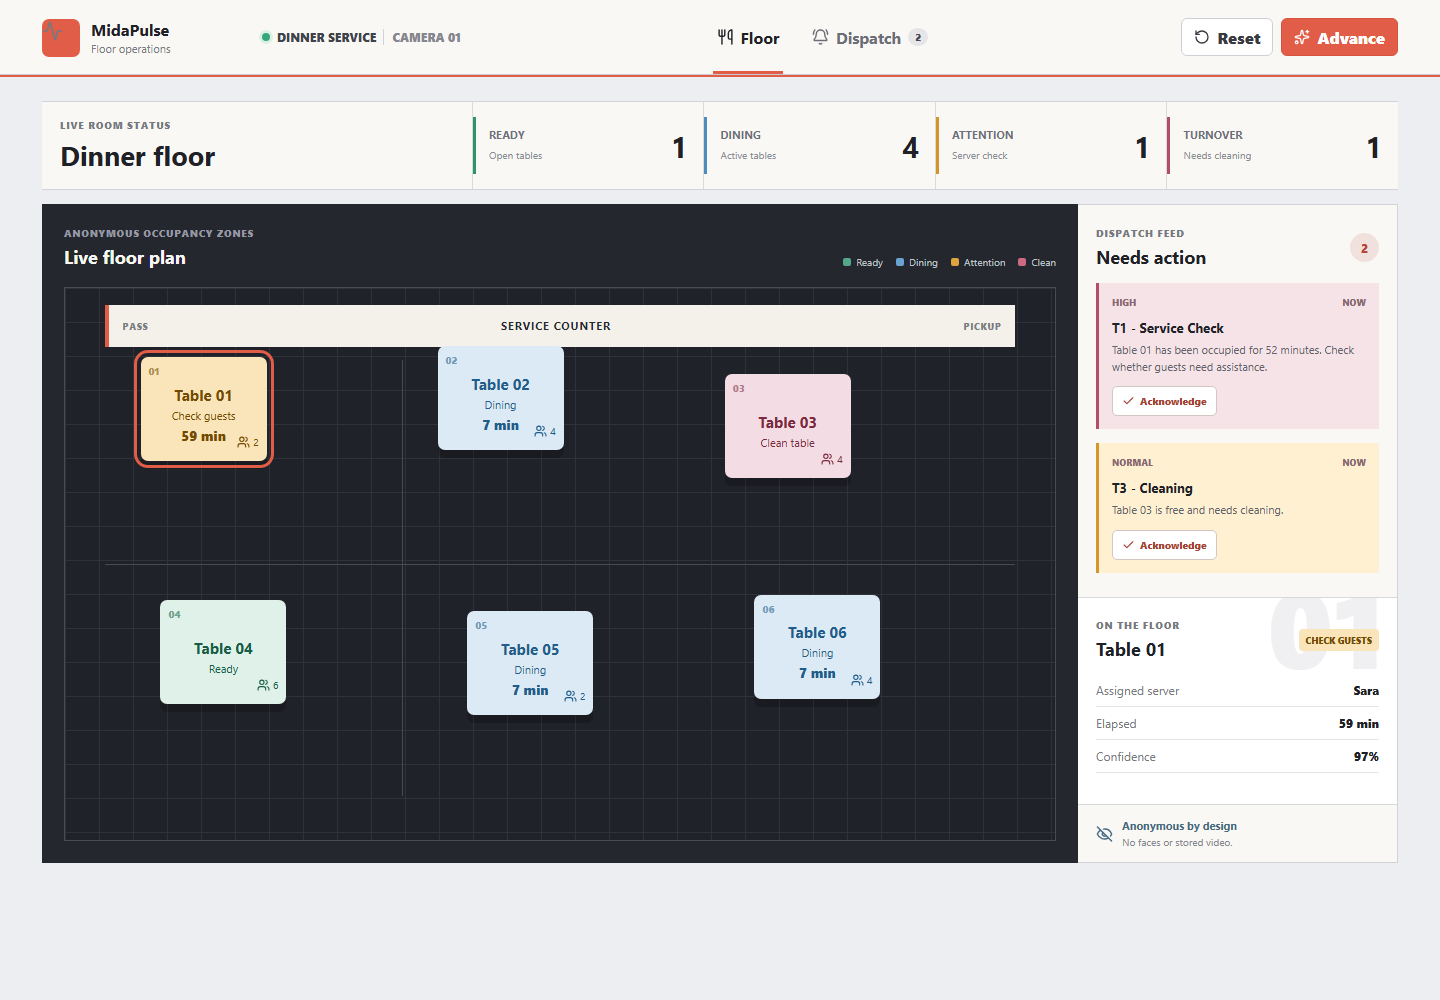
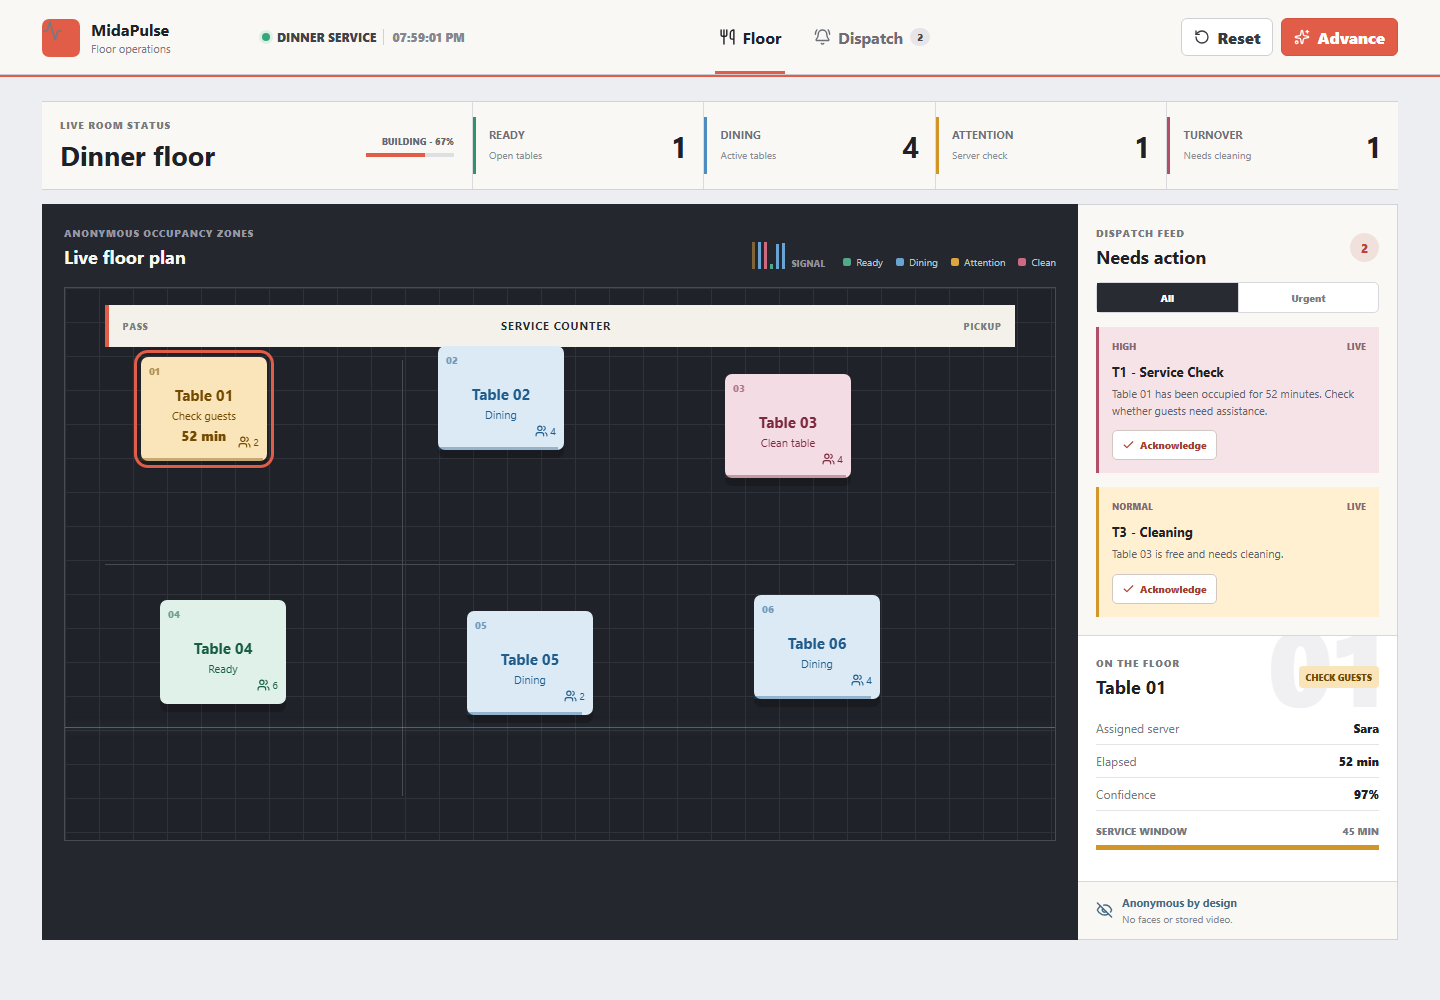
feat: add a live operational pulse

diff --git a/frontend/src/styles.css b/frontend/src/styles.css
@@ -29,7 +29,7 @@ button { font: inherit; cursor: pointer; }
 .brand span { margin-top: 1px; color: #777982; font-size: 11px; }
 .service-mode { display: flex; align-items: center; gap: 7px; color: #41434a; font-size: 12px; font-weight: 800; text-transform: uppercase; }
 .service-mode i { width: 8px; height: 8px; border-radius: 50%; background: #34a678; box-shadow: 0 0 0 3px #dcefe8; }
-.service-mode span { padding-left: 8px; border-left: 1px solid #d1d2d7; color: #85868e; }
+.service-mode span { min-width: 76px; padding-left: 8px; border-left: 1px solid #d1d2d7; color: #85868e; font-variant-numeric: tabular-nums; }
 nav { height: 74px; display: flex; justify-content: center; gap: 4px; }
 nav button { position: relative; min-width: 94px; padding: 0 13px; display: flex; align-items: center; justify-content: center; gap: 7px; border: 0; background: transparent; color: #6c6e77; font-weight: 750; }
 nav button svg { width: 17px; }
@@ -41,6 +41,7 @@ nav button.active::after { content: ""; position: absolute; left: 12px; right: 1
 .actions svg { width: 16px; }
 .actions .primary, .primary { border-color: #d65340; background: #e25d47; color: white; }
 .actions button:disabled { opacity: .65; cursor: wait; }
+.actions button:disabled svg { animation: spin 1s linear infinite; }
 
 .cockpit { padding: 26px clamp(18px, 3vw, 42px) 36px; }
 .eyebrow { margin: 0 0 5px; color: #777982; font-size: 10px; font-weight: 900; letter-spacing: .08em; text-transform: uppercase; }
@@ -58,7 +59,11 @@ h2 { font-size: 18px; }
   border-top: 1px solid #d2d3d8;
   border-bottom: 1px solid #d2d3d8;
 }
-.ribbon-title { padding: 16px 18px; align-self: center; }
+.ribbon-title { padding: 16px 18px; align-self: center; display: flex; align-items: center; justify-content: space-between; gap: 16px; }
+.tempo { width: 88px; color: #676972; font-size: 9px; font-weight: 900; text-align: right; text-transform: uppercase; }
+.tempo>span { display: block; margin-bottom: 6px; }
+.tempo>i, .service-window>i { height: 4px; display: block; overflow: hidden; background: #dedfe3; }
+.tempo>i b, .service-window>i b { height: 100%; display: block; background: #e25d47; transition: width .6s ease; }
 .metric { position: relative; padding: 14px 16px; display: grid; grid-template-columns: 1fr auto; align-content: center; border-left: 1px solid #d9dade; }
 .metric::before { content: ""; position: absolute; left: 0; top: 15px; bottom: 15px; width: 3px; background: #2f936e; }
 .metric.occupied::before { background: #4e8bbe; }
@@ -72,6 +77,13 @@ h2 { font-size: 18px; }
 .floor-stage { min-width: 0; padding: 22px; background: #25272e; color: #f8f7f3; }
 .stage-heading { display: flex; align-items: end; justify-content: space-between; gap: 18px; }
 .stage-heading .eyebrow { color: #9699a3; }
+.stage-tools { display: flex; align-items: end; gap: 18px; }
+.room-signal { height: 28px; display: flex; align-items: end; gap: 3px; color: #8f929c; }
+.room-signal i { width: 3px; min-height: 5px; background: #52a889; transition: height .5s ease; }
+.room-signal i.occupied { background: #69a3d2; }
+.room-signal i.attention_due { background: #dea43d; animation: signal 1s ease-in-out infinite alternate; }
+.room-signal i.vacated_needs_cleaning { background: #cc6a82; }
+.room-signal span { margin-left: 3px; align-self: end; font-size: 9px; font-weight: 850; text-transform: uppercase; }
 .legend { display: flex; flex-wrap: wrap; justify-content: flex-end; gap: 13px; color: #bfc1c8; font-size: 10px; }
 .legend span { display: flex; align-items: center; gap: 5px; }
 .legend i { width: 8px; height: 8px; border-radius: 2px; background: #52a889; }
@@ -82,30 +94,37 @@ h2 { font-size: 18px; }
 .map::before, .map::after { content: ""; position: absolute; background: #484b54; }
 .map::before { left: 34%; top: 13%; bottom: 8%; width: 1px; }
 .map::after { left: 4%; right: 4%; top: 50%; height: 1px; }
+.scan-line { position: absolute; left: 0; right: 0; top: 12%; height: 1px; background: rgba(111,183,208,.65); box-shadow: 0 0 12px rgba(111,183,208,.5); animation: scan 7s ease-in-out infinite alternate; pointer-events: none; z-index: 1; }
 .bar { position: absolute; left: 4%; right: 4%; top: 3%; height: 42px; padding: 0 14px; display: flex; align-items: center; justify-content: space-between; border-left: 4px solid #e25d47; background: #f4f1eb; color: #272930; text-transform: uppercase; }
 .bar strong { font-size: 11px; letter-spacing: .08em; }
 .bar span { color: #7b7d84; font-size: 9px; font-weight: 900; letter-spacing: .08em; }
-.table { position: absolute; width: 126px; height: 104px; padding: 10px; transform: translate(-50%, -50%); border: 0; border-radius: 7px; background: #dff1e9; color: #185d45; box-shadow: 0 8px 0 rgba(0,0,0,.18); transition: transform .16s ease, box-shadow .16s ease; z-index: 1; }
+.table { position: absolute; width: 126px; height: 104px; padding: 10px; transform: translate(-50%, -50%); border: 0; border-radius: 7px; background: #dff1e9; color: #185d45; box-shadow: 0 8px 0 rgba(0,0,0,.18); transition: transform .16s ease, box-shadow .16s ease; animation: table-in .45s both; animation-delay: var(--delay); z-index: 2; }
 .table:hover { transform: translate(-50%, -54%); box-shadow: 0 11px 0 rgba(0,0,0,.22); }
 .table-number { position: absolute; left: 8px; top: 7px; color: currentColor; font-size: 10px; font-weight: 900; opacity: .55; }
-.table strong, .table>span:not(.table-number), .table small { display: block; }
+.table strong, .table>span:not(.table-number):not(.confidence), .table small { display: block; }
 .table strong { margin-top: 10px; font-size: 15px; }
 .table>span:not(.table-number) { margin-top: 3px; font-size: 11px; }
 .table small { margin-top: 4px; font-weight: 900; }
 .table em { position: absolute; right: 8px; bottom: 7px; display: flex; align-items: center; gap: 3px; font-size: 10px; font-style: normal; }
 .table em svg { width: 13px; }
+.confidence { position: absolute; left: 0; bottom: 0; width: var(--confidence); height: 3px; background: currentColor; opacity: .38; transition: width .6s ease; }
 .table.selected { outline: 3px solid #e25d47; outline-offset: 4px; }
 .table.occupied { background: #dceaf5; color: #205d8c; }
 .table.attention_due { background: #f9e5b9; color: #744a00; }
 .table.vacated_needs_cleaning { background: #f3dce3; color: #7d2940; }
 .table.cleaning { background: #e9e0f2; color: #554078; }
 .table.out_of_service { background: #e1e2e5; color: #55575f; }
+.table.attention_due:not(.selected) { animation: table-in .45s both var(--delay), attention-pulse 1.8s ease-in-out infinite 1s; }
 
 .dispatch { min-width: 0; display: flex; flex-direction: column; background: #f9f8f5; border: 1px solid #d2d3d8; border-left: 0; }
 .queue { padding: 21px 18px 18px; }
 .dispatch-heading, .inspector-title { display: flex; align-items: center; justify-content: space-between; gap: 12px; }
 .queue-count { min-width: 29px; height: 29px; padding: 0 8px; display: grid; place-items: center; border-radius: 15px; background: #f0e1dd; color: #b84535; font-size: 12px; font-weight: 900; }
-.alert { position: relative; margin-top: 14px; padding: 13px; border-left: 3px solid #d3972c; background: #fff0d2; }
+.queue-filter { margin-top: 13px; display: grid; grid-template-columns: 1fr 1fr; border: 1px solid #d7d8dc; border-radius: 5px; background: white; }
+.queue-filter button { min-height: 29px; border: 0; background: transparent; color: #7b7d85; font-size: 10px; font-weight: 850; }
+.queue-filter button+button { border-left: 1px solid #d7d8dc; }
+.queue-filter button.active { background: #292b32; color: white; }
+.alert { position: relative; margin-top: 14px; padding: 13px; border-left: 3px solid #d3972c; background: #fff0d2; animation: alert-in .35s both; animation-delay: var(--delay); }
 .alert.high { border-left-color: #b34e69; background: #f6e3e8; }
 .alert-meta { margin-bottom: 8px; display: flex; justify-content: space-between; color: #8a6871; font-size: 9px; font-weight: 900; text-transform: uppercase; }
 .alert strong { font-size: 13px; text-transform: capitalize; }
@@ -113,7 +132,7 @@ h2 { font-size: 18px; }
 .alert button { min-height: 30px; padding: 0 9px; display: flex; align-items: center; gap: 5px; border: 1px solid #d2c7c3; border-radius: 5px; background: white; color: #a83f31; font-size: 10px; font-weight: 850; }
 .alert button svg { width: 13px; }
 .empty { color: #767881; font-size: 12px; }
-.inspector { position: relative; margin-top: auto; padding: 20px 18px 18px; overflow: hidden; border-top: 1px solid #d7d8dc; background: white; }
+.inspector { position: relative; margin-top: auto; padding: 20px 18px 18px; overflow: hidden; border-top: 1px solid #d7d8dc; background: white; animation: inspector-in .25s ease-out both; }
 .inspector-number { position: absolute; right: 12px; top: -28px; color: #f0f0f2; font-size: 108px; font-weight: 950; line-height: 1; pointer-events: none; }
 .inspector-title { position: relative; }
 .state-pill { padding: 5px 7px; border-radius: 4px; background: #dff1e9; color: #236e54; font-size: 9px; font-weight: 900; text-transform: uppercase; }
@@ -125,12 +144,24 @@ h2 { font-size: 18px; }
 .inspector dl div { display: flex; justify-content: space-between; padding: 8px 0; border-bottom: 1px solid #e4e4e7; }
 .inspector dt { color: #777982; font-size: 12px; }
 .inspector dd { margin: 0; font-size: 12px; font-weight: 850; }
+.service-window { position: relative; margin: 13px 0; }
+.service-window>div { margin-bottom: 7px; display: flex; justify-content: space-between; color: #777982; font-size: 10px; font-weight: 800; text-transform: uppercase; }
+.service-window>i { height: 5px; }
+.service-window>i b { background: #d39527; }
 .wide { width: 100%; }
 .privacy { padding: 13px 18px; display: flex; align-items: center; gap: 9px; border-top: 1px solid #d7d8dc; color: #456b82; }
 .privacy svg { width: 17px; }
 .privacy strong, .privacy span { display: block; }
 .privacy strong { font-size: 11px; }
 .privacy span { margin-top: 2px; color: #85878f; font-size: 10px; }
+
+@keyframes scan { from { top: 12%; opacity: .35; } to { top: 92%; opacity: .8; } }
+@keyframes table-in { from { opacity: 0; transform: translate(-50%, -42%) scale(.94); } to { opacity: 1; transform: translate(-50%, -50%) scale(1); } }
+@keyframes alert-in { from { opacity: 0; transform: translateX(12px); } to { opacity: 1; transform: translateX(0); } }
+@keyframes inspector-in { from { opacity: 0; transform: translateY(7px); } to { opacity: 1; transform: translateY(0); } }
+@keyframes attention-pulse { 50% { box-shadow: 0 8px 0 rgba(0,0,0,.18), 0 0 0 5px rgba(222,164,61,.16); } }
+@keyframes signal { from { opacity: .45; } to { opacity: 1; } }
+@keyframes spin { to { transform: rotate(360deg); } }
 
 @media (max-width: 1080px) {
   .topbar { grid-template-columns: auto 1fr auto; gap: 16px; }
@@ -162,10 +193,17 @@ h2 { font-size: 18px; }
   .metric:nth-of-type(4) { border-top: 1px solid #d9dade; }
   .floor-stage { padding: 16px 14px; }
   .stage-heading { align-items: start; flex-direction: column; }
+  .stage-tools { width: 100%; justify-content: space-between; align-items: end; }
   .legend { justify-content: flex-start; }
   .map { height: auto; padding: 14px; display: grid; grid-template-columns: repeat(2, minmax(0, 1fr)); gap: 12px; }
-  .map::before, .map::after { display: none; }
+  .map::before, .map::after, .scan-line { display: none; }
   .bar { position: relative; inset: auto; grid-column: 1 / -1; }
-  .table { position: relative; inset: auto!important; width: 100%; transform: none; }
+  .table { position: relative; inset: auto!important; width: 100%; transform: none; animation-name: mobile-table-in; }
   .table:hover { transform: translateY(-2px); }
+}
+
+@keyframes mobile-table-in { from { opacity: 0; transform: translateY(8px); } to { opacity: 1; transform: translateY(0); } }
+
+@media (prefers-reduced-motion: reduce) {
+  *, *::before, *::after { animation-duration: .01ms!important; animation-iteration-count: 1!important; scroll-behavior: auto!important; }
 }

diff --git a/frontend/src/main.tsx b/frontend/src/main.tsx
@@ -15,7 +15,7 @@ import "./styles.css";
 const API = import.meta.env.VITE_API_URL || "http://127.0.0.1:8100";
 
 type State = "available_clean" | "occupied" | "attention_due" | "vacated_needs_cleaning" | "cleaning" | "out_of_service";
-type Table = {id:string;label:string;seats:number;zone_x:number;zone_y:number;state:State;elapsed_minutes:number;assigned_server:string|null;last_confidence:number};
+type Table = {id:string;label:string;seats:number;zone_x:number;zone_y:number;state:State;elapsed_minutes:number;attention_after_minutes:number;assigned_server:string|null;last_confidence:number};
 type Alert = {id:number;table_id:string;alert_type:string;priority:string;message:string;status:string;created_at:string;acknowledged_by:string|null};
 type Snapshot = {tables:Table[];alerts:Alert[];metrics:Record<string,number>};
 
@@ -26,15 +26,21 @@ function App(){
   const [selected,setSelected]=useState("T1");
   const [error,setError]=useState("");
   const [busy,setBusy]=useState(false);
+  const [now,setNow]=useState(new Date());
+  const [alertFilter,setAlertFilter]=useState<"all"|"urgent">("all");
   const load=async()=>{try{const r=await fetch(`${API}/api/floor`);if(!r.ok)throw new Error();setData(await r.json());setError("");}catch{setError("API unavailable on port 8100");}};
   useEffect(()=>{load();const timer=setInterval(load,3000);return()=>clearInterval(timer);},[]);
+  useEffect(()=>{const timer=setInterval(()=>setNow(new Date()),1000);return()=>clearInterval(timer);},[]);
   const act=async(path:string,body?:object)=>{setBusy(true);await fetch(`${API}${path}`,{method:"POST",headers:{"Content-Type":"application/json"},body:body?JSON.stringify(body):undefined});await load();setBusy(false);};
   const chosen=useMemo(()=>data.tables.find(t=>t.id===selected),[data,selected]);
+  const shownAlerts=alertFilter==="urgent"?data.alerts.filter(a=>a.priority==="high"):data.alerts;
+  const occupancy=Math.round(((data.metrics.occupied||0)/Math.max(data.tables.length,1))*100);
+  const tempo=occupancy>=75?"Peak":occupancy>=45?"Building":"Calm";
 
   return <div className="app">
     <header className="topbar">
       <div className="brand"><span className="brand-mark"><Activity/></span><div><strong>MidaPulse</strong><span>Floor operations</span></div></div>
-      <div className="service-mode"><i/>Dinner service <span>Camera 01</span></div>
+      <div className="service-mode"><i/>Dinner service <span>{now.toLocaleTimeString([],{hour:"2-digit",minute:"2-digit",second:"2-digit"})}</span></div>
       <nav><button className="active"><Utensils/>Floor</button><button><BellRing/>Dispatch <b>{data.alerts.length}</b></button></nav>
       <div className="actions"><button title="Reset demo" onClick={()=>act("/api/demo/reset")}><RotateCcw/><span>Reset</span></button><button className="primary" onClick={()=>act("/api/demo/step")} disabled={busy}><Sparkles/>Advance</button></div>
     </header>
@@ -42,7 +48,7 @@ function App(){
     <main className="cockpit">
       {error&&<div className="error">{error}</div>}
       <section className="service-ribbon">
-        <div className="ribbon-title"><p className="eyebrow">Live room status</p><h1>Dinner floor</h1></div>
+        <div className="ribbon-title"><div><p className="eyebrow">Live room status</p><h1>Dinner floor</h1></div><div className="tempo"><span>{tempo} - {occupancy}%</span><i><b style={{width:`${occupancy}%`}}/></i></div></div>
         <div className="metric available"><span>Ready</span><strong>{data.metrics.available||0}</strong><small>Open tables</small></div>
         <div className="metric occupied"><span>Dining</span><strong>{data.metrics.occupied||0}</strong><small>Active tables</small></div>
         <div className="metric attention"><span>Attention</span><strong>{data.metrics.attention_due||0}</strong><small>Server check</small></div>
@@ -51,13 +57,13 @@ function App(){
 
       <div className="workspace">
         <section className="floor-stage">
-          <div className="stage-heading"><div><p className="eyebrow">Anonymous occupancy zones</p><h2>Live floor plan</h2></div><div className="legend"><span><i className="ready"/>Ready</span><span><i className="dining"/>Dining</span><span><i className="attention"/>Attention</span><span><i className="clean"/>Clean</span></div></div>
-          <div className="map"><div className="bar"><span>Pass</span><strong>Service counter</strong><span>Pickup</span></div>{data.tables.map(t=><button key={t.id} style={{left:`${t.zone_x}%`,top:`${t.zone_y}%`}} className={`table ${t.state} ${selected===t.id?"selected":""}`} onClick={()=>setSelected(t.id)}><span className="table-number">{t.label.replace("Table ","")}</span><strong>{t.label}</strong><span>{labels[t.state]}</span>{t.elapsed_minutes>0&&<small>{t.elapsed_minutes} min</small>}<em><Users/> {t.seats}</em></button>)}</div>
+          <div className="stage-heading"><div><p className="eyebrow">Anonymous occupancy zones</p><h2>Live floor plan</h2></div><div className="stage-tools"><div className="room-signal" title="Live room signal">{data.tables.map(t=><i key={t.id} className={t.state} style={{height:`${Math.max(18,Math.round(t.last_confidence*100))}%`}}/>)}<span>Signal</span></div><div className="legend"><span><i className="ready"/>Ready</span><span><i className="dining"/>Dining</span><span><i className="attention"/>Attention</span><span><i className="clean"/>Clean</span></div></div></div>
+          <div className="map"><div className="scan-line"/><div className="bar"><span>Pass</span><strong>Service counter</strong><span>Pickup</span></div>{data.tables.map((t,index)=><button key={t.id} style={{left:`${t.zone_x}%`,top:`${t.zone_y}%`,"--delay":`${index*70}ms`,"--confidence":`${Math.round(t.last_confidence*100)}%`} as React.CSSProperties} className={`table ${t.state} ${selected===t.id?"selected":""}`} onClick={()=>setSelected(t.id)}><span className="table-number">{t.label.replace("Table ","")}</span><strong>{t.label}</strong><span>{labels[t.state]}</span>{t.elapsed_minutes>0&&<small>{t.elapsed_minutes} min</small>}<span className="confidence"/><em><Users/> {t.seats}</em></button>)}</div>
         </section>
 
         <aside className="dispatch">
-          <section className="queue"><div className="dispatch-heading"><div><p className="eyebrow">Dispatch feed</p><h2>Needs action</h2></div><span className="queue-count">{data.alerts.length}</span></div>{data.alerts.length===0?<p className="empty">No open alerts. The floor is moving normally.</p>:data.alerts.map(a=><article className={`alert ${a.priority}`} key={a.id}><div className="alert-meta"><span>{a.priority}</span><time>Now</time></div><strong>{a.table_id} - {a.alert_type.replaceAll("_"," ")}</strong><p>{a.message}</p><button title="Acknowledge alert" aria-label="Acknowledge alert" onClick={()=>act(`/api/alerts/${a.id}/acknowledge`,{server:"Sara"})}><Check/>Acknowledge</button></article>)}</section>
-          {chosen&&<section className="inspector"><div className="inspector-number">{chosen.label.replace("Table ","")}</div><div className="inspector-title"><div><p className="eyebrow">On the floor</p><h2>{chosen.label}</h2></div><span className={`state-pill ${chosen.state}`}>{labels[chosen.state]}</span></div><dl><div><dt>Assigned server</dt><dd>{chosen.assigned_server||"Unassigned"}</dd></div><div><dt>Elapsed</dt><dd>{chosen.elapsed_minutes} min</dd></div><div><dt>Confidence</dt><dd>{Math.round(chosen.last_confidence*100)}%</dd></div></dl>{chosen.state==="vacated_needs_cleaning"&&<button className="primary wide" onClick={()=>act(`/api/tables/${chosen.id}/cleaning`,{staff:"Nora",action:"complete"})}>Mark clean</button>}</section>}
+          <section className="queue"><div className="dispatch-heading"><div><p className="eyebrow">Dispatch feed</p><h2>Needs action</h2></div><span className="queue-count">{data.alerts.length}</span></div><div className="queue-filter"><button className={alertFilter==="all"?"active":""} onClick={()=>setAlertFilter("all")}>All</button><button className={alertFilter==="urgent"?"active":""} onClick={()=>setAlertFilter("urgent")}>Urgent</button></div>{shownAlerts.length===0?<p className="empty">No alerts in this view.</p>:shownAlerts.map((a,index)=><article className={`alert ${a.priority}`} style={{"--delay":`${index*90}ms`} as React.CSSProperties} key={a.id}><div className="alert-meta"><span>{a.priority}</span><time>Live</time></div><strong>{a.table_id} - {a.alert_type.replaceAll("_"," ")}</strong><p>{a.message}</p><button title="Acknowledge alert" aria-label="Acknowledge alert" onClick={()=>act(`/api/alerts/${a.id}/acknowledge`,{server:"Sara"})}><Check/>Acknowledge</button></article>)}</section>
+          {chosen&&<section className="inspector" key={chosen.id}><div className="inspector-number">{chosen.label.replace("Table ","")}</div><div className="inspector-title"><div><p className="eyebrow">On the floor</p><h2>{chosen.label}</h2></div><span className={`state-pill ${chosen.state}`}>{labels[chosen.state]}</span></div><dl><div><dt>Assigned server</dt><dd>{chosen.assigned_server||"Unassigned"}</dd></div><div><dt>Elapsed</dt><dd>{chosen.elapsed_minutes} min</dd></div><div><dt>Confidence</dt><dd>{Math.round(chosen.last_confidence*100)}%</dd></div></dl><div className="service-window"><div><span>Service window</span><b>{chosen.attention_after_minutes} min</b></div><i><b style={{width:`${Math.min(100,(chosen.elapsed_minutes/Math.max(chosen.attention_after_minutes,1))*100)}%`}}/></i></div>{chosen.state==="vacated_needs_cleaning"&&<button className="primary wide" onClick={()=>act(`/api/tables/${chosen.id}/cleaning`,{staff:"Nora",action:"complete"})}>Mark clean</button>}</section>}
           <div className="privacy"><EyeOff/><div><strong>Anonymous by design</strong><span>No faces or stored video.</span></div></div>
         </aside>
       </div>
